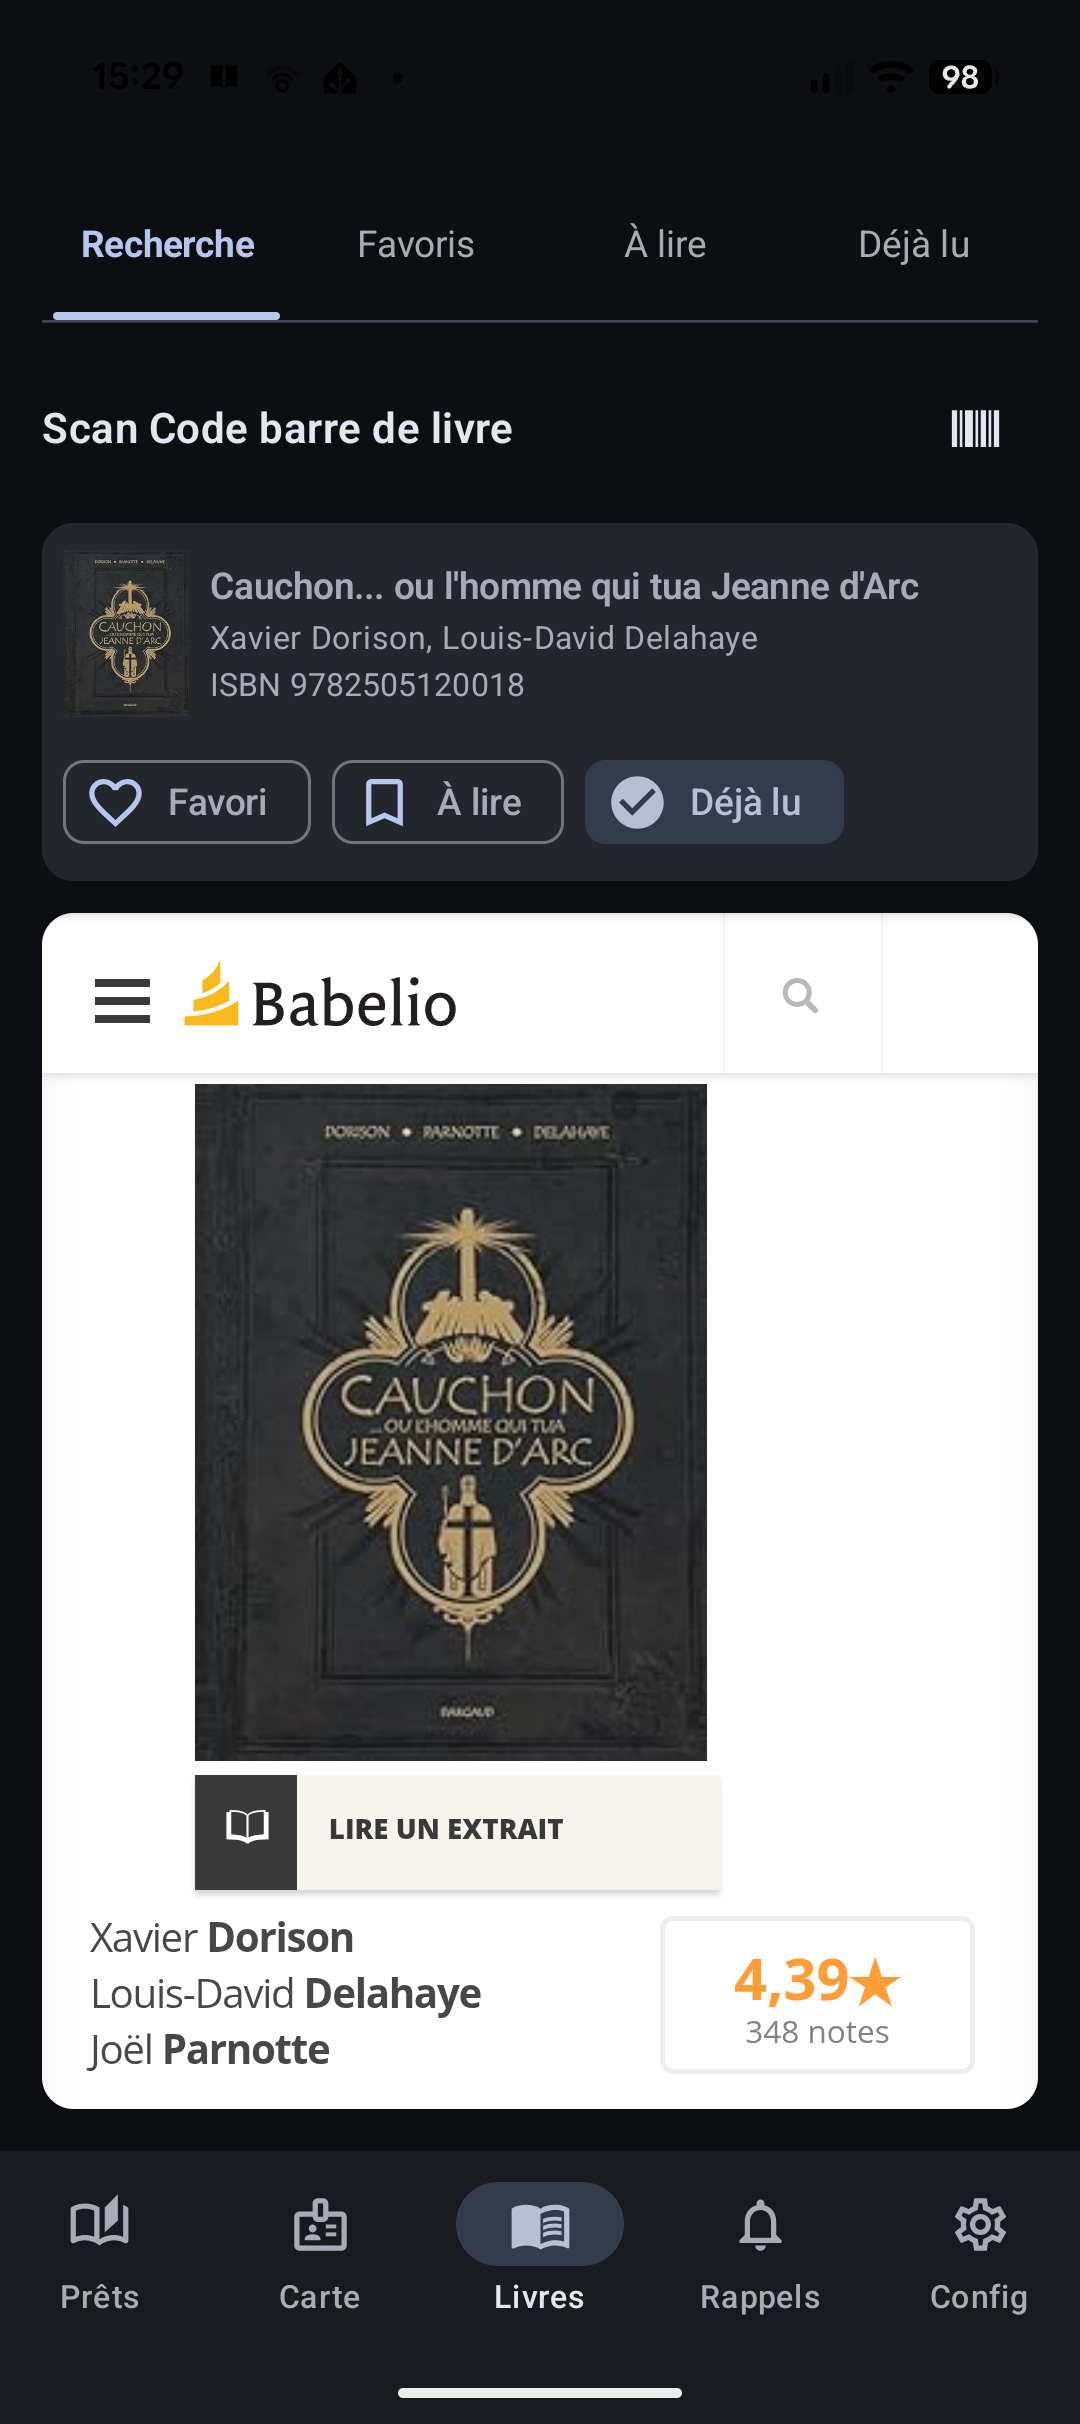
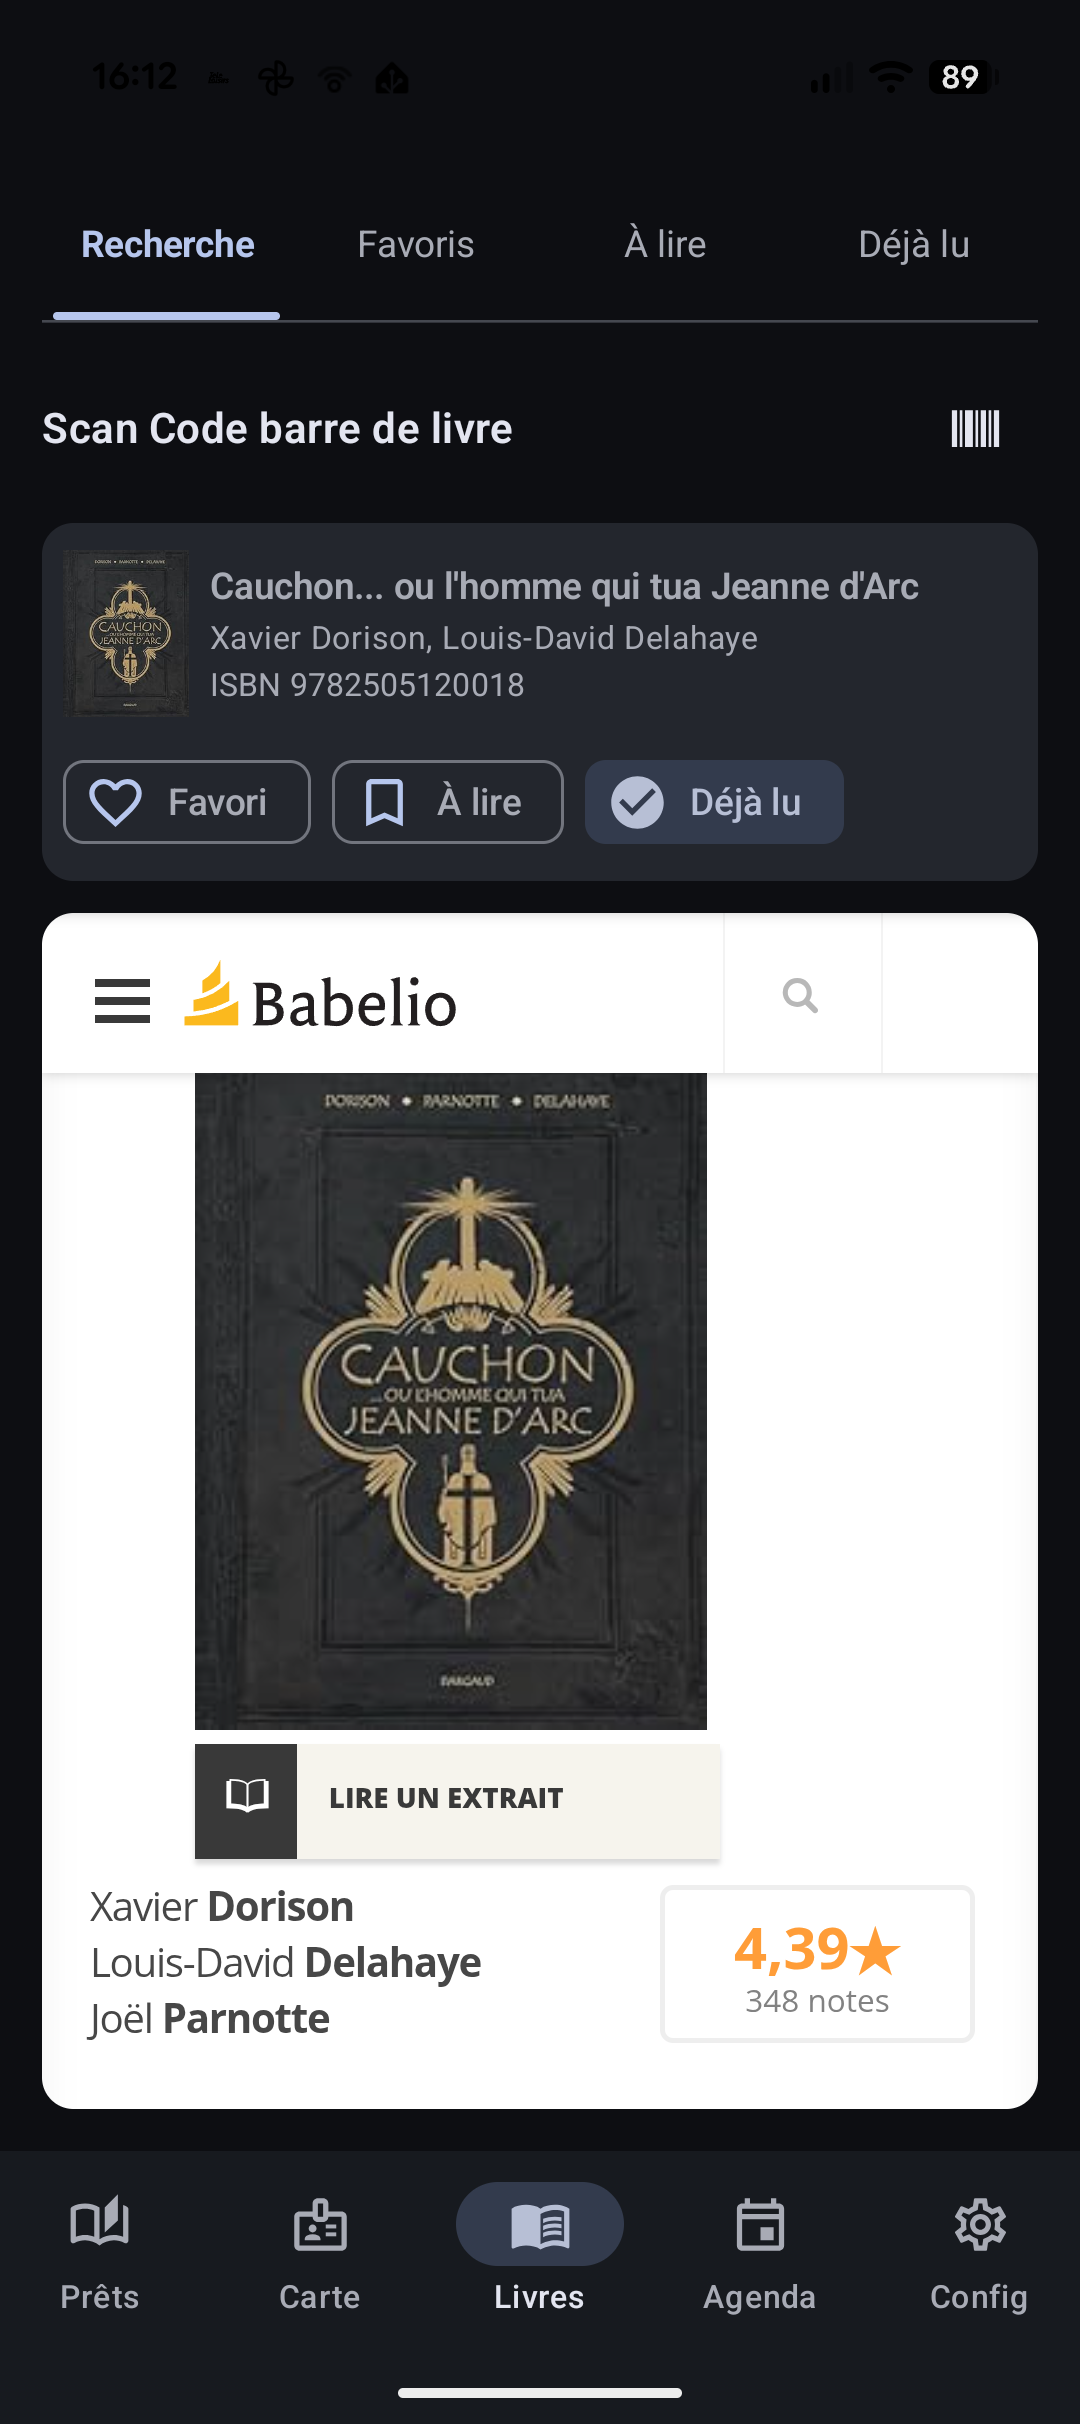
update documentation

Changed region(s): [[0.0611, 0.4332, 0.6722, 0.8663], [0.6722, 0.7735, 0.825, 0.8354], [0.6417, 0.8973, 0.7639, 0.9592]]

diff --git a/docs/web/agenda-actualites.html b/docs/web/agenda-actualites.html
@@ -1,0 +1,81 @@
+<!DOCTYPE html>
+<html lang="fr">
+<head>
+  <meta charset="UTF-8">
+  <meta name="viewport" content="width=device-width, initial-scale=1.0">
+  <title>Biblio Cuers — L'actualité de la bibliothèque</title>
+  <link rel="stylesheet" href="assets/style.css">
+</head>
+<body>
+
+<header class="site-header">
+  <div class="wrap">
+    <div class="brand">
+      <div class="brand-mark" aria-hidden="true">B</div>
+      <div>
+        <div class="brand-name">Biblio Cuers</div>
+        <div class="brand-tagline">Parce que la bibliothèque, elle vous suit partout.</div>
+      </div>
+    </div>
+    <nav class="main-nav" aria-label="Navigation">
+      <a href="index.html">Présentation</a>
+      <a href="carte-adherent.html">Carte d'adhérent</a>
+      <a href="prets-echances.html">Prêts</a>
+      <a href="rappels-notifications.html">Rappels</a>
+      <a href="decouvrir-livres.html">Découvrir</a>
+      <a href="listes-favoris-a-lire.html">Favoris &amp; À lire</a>
+      <a href="deja-lu.html">Déjà lu</a>
+      <a href="agenda-actualites.html" aria-current="page">Agenda</a>
+    </nav>
+  </div>
+</header>
+
+<main class="wrap">
+
+  <h1>L'actualité de votre bibliothèque, en un geste</h1>
+  <p class="lead">
+    Horaires exceptionnels, animations, nouveautés, coups de cœur du mois… le site de la bibliothèque
+    se consulte désormais <strong>directement dans l'application</strong>, sans ouvrir un navigateur.
+  </p>
+
+  <h2>En pratique</h2>
+  <ul>
+    <li>L'onglet <strong>Agenda</strong> affiche la page d'actualités du site de la bibliothèque, <strong>rendue telle quelle</strong> — exactement comme dans un navigateur.</li>
+    <li>Quand votre session est valide, la page vous <strong>accueille par votre nom</strong> sans avoir à vous reconnecter.</li>
+    <li>La page se comporte comme le vrai site&nbsp;: on suit les liens, on navigue, sans jamais quitter l'application.</li>
+  </ul>
+
+  <div class="points-forts">
+    <h2>Les points forts</h2>
+    <ul>
+      <li>L'actualité de la bibliothèque <strong>sans chercher l'adresse du site</strong> ni télécharger autre chose.</li>
+      <li>Le <strong>vrai site officiel</strong>, affiché tel quel.</li>
+      <li>Un seul geste pour rester <strong>au courant de ce qui se passe</strong> à la médiathèque.</li>
+    </ul>
+  </div>
+
+  <div class="figure-row">
+    <figure>
+      <a class="shot-link" href="#shot-agenda" aria-label="Agrandir la capture">
+        <img class="shot" src="assets/captures/capture_Agenda.png" alt="La page d'actualités de la bibliothèque dans l'onglet Agenda">
+      </a>
+      <figcaption>L'actualité de la bibliothèque dans l'onglet Agenda.</figcaption>
+    </figure>
+  </div>
+
+  <div id="shot-agenda" class="lightbox" role="dialog" aria-label="Grand format — L'actualité de la bibliothèque">
+    <a class="lightbox-backdrop" href="#" aria-label="Fermer"></a>
+    <img class="lightbox-img" src="assets/captures/capture_Agenda.png" alt="La page d'actualités de la bibliothèque dans l'onglet Agenda">
+    <a class="lightbox-close" href="#" aria-label="Fermer">&times;</a>
+  </div>
+
+</main>
+
+<footer class="site-footer">
+  <div class="wrap">
+    <p><strong>Biblio Cuers</strong> — une application faite par un adhérent, pour les adhérents de la bibliothèque de Cuers.</p>
+  </div>
+</footer>
+
+</body>
+</html>

diff --git a/docs/web/rappels-notifications.html b/docs/web/rappels-notifications.html
@@ -25,6 +25,7 @@
       <a href="decouvrir-livres.html">Découvrir</a>
       <a href="listes-favoris-a-lire.html">Favoris &amp; À lire</a>
       <a href="deja-lu.html">Déjà lu</a>
+      <a href="agenda-actualites.html">Agenda</a>
     </nav>
   </div>
 </header>
@@ -43,6 +44,7 @@
     <li>Vous êtes <strong>notifié(e) automatiquement</strong> quelques jours avant, puis le jour J si le livre est toujours chez vous.</li>
     <li>En option, l'application peut aussi vous alerter <strong>chaque jour en cas de retard</strong>, jusqu'au retour.</li>
     <li>Chaque rappel concerne un livre précis&nbsp;: vous savez immédiatement <strong>quel</strong> livre rapporter.</li>
+    <li>Les rappels se règlent dans la page <strong>Réglages</strong> de l'application, sous l'onglet «&nbsp;Rappels&nbsp;».</li>
   </ul>
 
   <div class="points-forts">
@@ -57,7 +59,7 @@
   <div class="figure-row">
     <figure>
       <a class="shot-link" href="#shot-rappels" aria-label="Agrandir la capture">
-        <img class="shot" src="assets/captures/capture_RéglagesNotification.png" alt="Réglage des rappels de retour">
+        <img class="shot" src="assets/captures/capture_RéglagesNotification.png" alt="Réglage des rappels de retour, dans la page Réglages">
       </a>
       <figcaption>Réglage des rappels de retour.</figcaption>
     </figure>
@@ -65,7 +67,7 @@
 
   <div id="shot-rappels" class="lightbox" role="dialog" aria-label="Grand format — Réglage des rappels">
     <a class="lightbox-backdrop" href="#" aria-label="Fermer"></a>
-    <img class="lightbox-img" src="assets/captures/capture_RéglagesNotification.png" alt="Réglage des rappels de retour">
+    <img class="lightbox-img" src="assets/captures/capture_RéglagesNotification.png" alt="Réglage des rappels de retour, dans la page Réglages">
     <a class="lightbox-close" href="#" aria-label="Fermer">&times;</a>
   </div>
 

diff --git a/docs/web/deja-lu.html b/docs/web/deja-lu.html
@@ -25,6 +25,7 @@
       <a href="decouvrir-livres.html">Découvrir</a>
       <a href="listes-favoris-a-lire.html">Favoris &amp; À lire</a>
       <a href="deja-lu.html" aria-current="page">Déjà lu</a>
+      <a href="agenda-actualites.html">Agenda</a>
     </nav>
   </div>
 </header>
@@ -57,7 +58,7 @@
   <div class="figure-row">
     <figure>
       <a class="shot-link" href="#shot-dejalu" aria-label="Agrandir la capture">
-        <img class="shot" src="assets/captures/capture_DejaLus.png" alt="La liste des livres déjà empruntés, avec leur date">
+        <img class="shot" src="assets/captures/capture_DejaLus..png" alt="La liste des livres déjà empruntés, avec leur date">
       </a>
       <figcaption>La mémoire des livres déjà empruntés, avec leur date.</figcaption>
     </figure>
@@ -65,7 +66,7 @@
 
   <div id="shot-dejalu" class="lightbox" role="dialog" aria-label="Grand format — Déjà lu">
     <a class="lightbox-backdrop" href="#" aria-label="Fermer"></a>
-    <img class="lightbox-img" src="assets/captures/capture_DejaLus.png" alt="La liste des livres déjà empruntés, avec leur date">
+    <img class="lightbox-img" src="assets/captures/capture_DejaLus..png" alt="La liste des livres déjà empruntés, avec leur date">
     <a class="lightbox-close" href="#" aria-label="Fermer">&times;</a>
   </div>
 

diff --git a/docs/web/index.html b/docs/web/index.html
@@ -25,6 +25,7 @@
       <a href="decouvrir-livres.html">Découvrir</a>
       <a href="listes-favoris-a-lire.html">Favoris &amp; À lire</a>
       <a href="deja-lu.html">Déjà lu</a>
+      <a href="agenda-actualites.html">Agenda</a>
     </nav>
   </div>
 </header>
@@ -45,7 +46,7 @@
   </blockquote>
 
   <h2>Des besoins concrets, tout simplement</h2>
-  <p class="lead">Cinq besoins que tout adhérent connaît bien — cinq réponses intégrées à l'application.</p>
+  <p class="lead">Six besoins que tout adhérent connaît bien — six réponses intégrées à l'application.</p>
 
   <div class="grid">
 
@@ -82,6 +83,13 @@
       <h3>Ne jamais re-emprunter un livre déjà lu</h3>
       <p>Chaque emprunt laisse une trace dans la liste « Déjà lu », avec sa date d'ajout : fini les livres repris par oubli.</p>
       <p><a href="deja-lu.html">Découvrir « Déjà lu » →</a></p>
+    </section>
+
+    <section class="needs">
+      <span class="num" aria-hidden="true">6</span>
+      <h3>Rester au courant de la vie de la bibliothèque</h3>
+      <p>Horaires, animations, nouveautés : l'actualité du site de la bibliothèque s'affiche dans l'onglet Agenda, rendue telle quelle — comme dans un navigateur.</p>
+      <p><a href="agenda-actualites.html">Découvrir l'Agenda →</a></p>
     </section>
 
   </div>

diff --git a/docs/web/carte-adherent.html b/docs/web/carte-adherent.html
@@ -25,6 +25,7 @@
       <a href="decouvrir-livres.html">Découvrir</a>
       <a href="listes-favoris-a-lire.html">Favoris &amp; À lire</a>
       <a href="deja-lu.html">Déjà lu</a>
+      <a href="agenda-actualites.html">Agenda</a>
     </nav>
   </div>
 </header>
@@ -62,7 +63,7 @@
     </figure>
     <figure>
       <a class="shot-link" href="#shot-carte-reglages" aria-label="Agrandir la capture">
-        <img class="shot" src="assets/captures/capture_Setings.png" alt="L'écran des réglages, où l'on gère sa carte">
+        <img class="shot" src="assets/captures/capture_Setings.jpg" alt="L'écran des réglages, où l'on gère sa carte">
       </a>
       <figcaption>L'écran des réglages, où l'on gère sa carte.</figcaption>
     </figure>
@@ -76,7 +77,7 @@
 
   <div id="shot-carte-reglages" class="lightbox" role="dialog" aria-label="Grand format — Réglages de la carte">
     <a class="lightbox-backdrop" href="#" aria-label="Fermer"></a>
-    <img class="lightbox-img" src="assets/captures/capture_Setings.png" alt="L'écran des réglages, où l'on gère sa carte">
+    <img class="lightbox-img" src="assets/captures/capture_Setings.jpg" alt="L'écran des réglages, où l'on gère sa carte">
     <a class="lightbox-close" href="#" aria-label="Fermer">&times;</a>
   </div>
 

diff --git a/docs/web/decouvrir-livres.html b/docs/web/decouvrir-livres.html
@@ -25,6 +25,7 @@
       <a href="decouvrir-livres.html" aria-current="page">Découvrir</a>
       <a href="listes-favoris-a-lire.html">Favoris &amp; À lire</a>
       <a href="deja-lu.html">Déjà lu</a>
+      <a href="agenda-actualites.html">Agenda</a>
     </nav>
   </div>
 </header>

diff --git a/docs/web/listes-favoris-a-lire.html b/docs/web/listes-favoris-a-lire.html
@@ -25,6 +25,7 @@
       <a href="decouvrir-livres.html">Découvrir</a>
       <a href="listes-favoris-a-lire.html" aria-current="page">Favoris &amp; À lire</a>
       <a href="deja-lu.html">Déjà lu</a>
+      <a href="agenda-actualites.html">Agenda</a>
     </nav>
   </div>
 </header>

diff --git a/docs/web/prets-echances.html b/docs/web/prets-echances.html
@@ -25,6 +25,7 @@
       <a href="decouvrir-livres.html">Découvrir</a>
       <a href="listes-favoris-a-lire.html">Favoris &amp; À lire</a>
       <a href="deja-lu.html">Déjà lu</a>
+      <a href="agenda-actualites.html">Agenda</a>
     </nav>
   </div>
 </header>

diff --git a/docs/web/README.md b/docs/web/README.md
@@ -5,10 +5,10 @@ Site statique HTML + CSS, sans JavaScript. Chaque page s'ouvre dans un navigateu
 
 ## Structure
 
-- `index.html` : présentation générale (les atouts et les 5 besoins concrets).
+- `index.html` : présentation générale (les atouts et les 6 besoins concrets).
 - `carte-adherent.html`, `prets-echances.html`, `rappels-notifications.html`,
-  `decouvrir-livres.html`, `listes-favoris-a-lire.html`, `deja-lu.html` : une page par
-  fonctionnalité.
+  `decouvrir-livres.html`, `listes-favoris-a-lire.html`, `deja-lu.html`,
+  `agenda-actualites.html` : une page par fonctionnalité.
 - `assets/style.css` : habillage partagé (vert de l'application).
 - `assets/captures/` : les captures d'écran des pages, déjà insérées (cliquables pour un grand format).
 
@@ -17,12 +17,13 @@ Site statique HTML + CSS, sans JavaScript. Chaque page s'ouvre dans un navigateu
 | Fichier | Page |
 |---|---|
 | `capture_CarteNumerique.png` | Carte d'adhérent (la carte numérique) |
-| `capture_Setings.png` | Carte d'adhérent (les réglages) |
+| `capture_Setings.jpg` | Carte d'adhérent (les réglages) |
 | `capture_MesPrets.png` | Prêts (liste des prêts) |
-| `capture_RéglagesNotification.png` | Rappels (réglage des rappels) |
+| `capture_RéglagesNotification.png` | Rappels (réglage des rappels, dans la page Réglages) |
 | `capture_Recherche01.png` / `capture_Recherche02.png` | Découvrir (résultat d'un scan) |
 | `capture_Favoris.png` | Favoris &amp; À lire (liste des favoris) |
-| `capture_DejaLus.png` | Déjà lu (mémoire des emprunts) |
+| `capture_DejaLus..png` | Déjà lu (mémoire des emprunts) |
+| `capture_Agenda.png` | Agenda (l'actualité de la bibliothèque) |
 
 ## Ajouter une nouvelle capture plus tard
 
